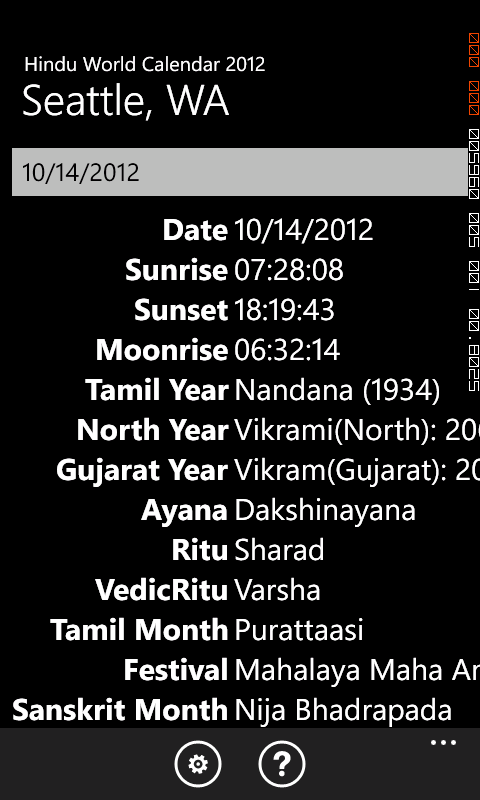
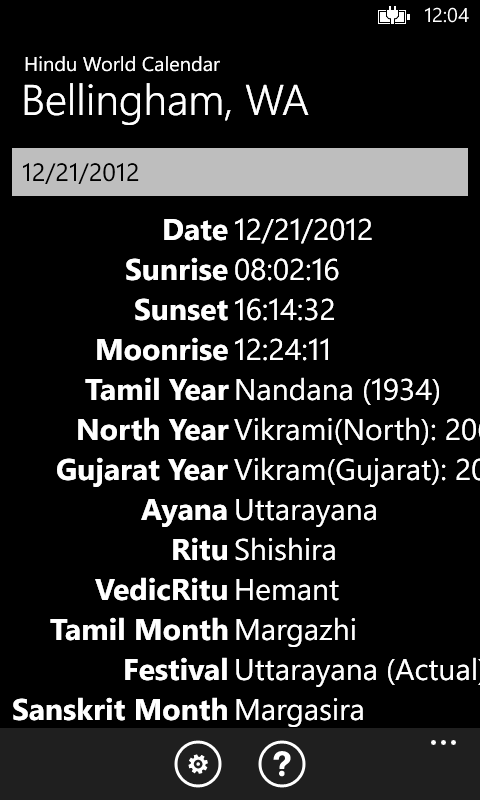
Update to fix crash in windows phone 7.1
These are bug fixes to pass certifcation

diff --git a/HinduCalendarPhone/HinduCalendarPhone/HinduCalendarPhone/CalendarData.cs b/HinduCalendarPhone/HinduCalendarPhone/HinduCalendarPhone/CalendarData.cs
@@ -105,29 +105,74 @@ namespace HinduCalendarPhone
         {
             if (getLocation == true)
             {
-                //MessageBoxResult result = MessageBox.Show("Please allow Hindu World Calendar to use your location to customize the calendar for your city",
-                //                "Hindu World Calendar",
-                //                MessageBoxButton.OKCancel);
-                //if (result == MessageBoxResult.OK)
+                // Start the watcher and wire for events.
                 {
                     GeoCoordinateWatcher watcher = new GeoCoordinateWatcher();
+                    watcher.StatusChanged += watcher_StatusChanged;
+                    watcher.PositionChanged += watcher_PositionChanged;
                     watcher.Start();
-                    if (watcher.Permission == GeoPositionPermission.Granted)
-                    {
-                        System.Diagnostics.Debug.WriteLine("Location services status" + watcher.Status.ToString());
-                        GeoCoordinate coord = watcher.Position.Location;
-                        _cityToken = Calender2.Data.CityData.FindClosestCity(coord.Latitude, coord.Longitude);
-                        City city = Calender2.Data.CityData.GetCityInformation(_cityToken);
-                        UpdateCityToken(_cityToken, city._Name);
-                    }
-                    else
-                    {
-                        System.Diagnostics.Debug.WriteLine("Location services not initilaized or permission not granted");
-                    }
+                    //if (watcher.Permission == GeoPositionPermission.Granted)
+                    //{
+                    //    System.Diagnostics.Debug.WriteLine("Location services status" + watcher.Status.ToString());
+                    //    GeoCoordinate coord = watcher.Position.Location;
+                    //    if (coord.IsUnknown != true)
+                    //    {
+                    //        _cityToken = Calender2.Data.CityData.FindClosestCity(coord.Latitude, coord.Longitude);
+                    //        City city = Calender2.Data.CityData.GetCityInformation(_cityToken);
+                    //        UpdateCityToken(_cityToken, city._Name);
+                    //    }
+                    //    else
+                    //    {
+                    //        System.Diagnostics.Debug.WriteLine("Location services not initilaized");
+                    //    }
+
+                    //}
+                    //else
+                    //{
+                    //    System.Diagnostics.Debug.WriteLine("permission not granted");
+                    //}
                 }
             }
             GetCalendarDataForYear(2012);
             GetCalendarDataForYear(2013);
+        }
+
+        private void watcher_PositionChanged(object sender, GeoPositionChangedEventArgs<GeoCoordinate> e)
+        {
+            System.Diagnostics.Debug.WriteLine("Location position changed {0} {1}", e.Position.Location.Latitude, e.Position.Location.Longitude);
+            GeoCoordinate coord = e.Position.Location;
+            if (coord.IsUnknown != true)
+            {
+                String cityToken = Calender2.Data.CityData.FindClosestCity(coord.Latitude, coord.Longitude);
+                City city = Calender2.Data.CityData.GetCityInformation(cityToken);
+                UpdateCityTokenAndGetData(cityToken, city._Name);
+                DayView.UpdateDayViewPageForNewCity();
+            }
+            else
+            {
+                System.Diagnostics.Debug.WriteLine("Location services not initilaized");
+            }
+        }
+
+        private void watcher_StatusChanged(object sender, GeoPositionStatusChangedEventArgs e)
+        {
+            GeoCoordinateWatcher watcher = sender as GeoCoordinateWatcher;
+            System.Diagnostics.Debug.WriteLine("Location services status" + watcher.Status.ToString());
+            if (e.Status == GeoPositionStatus.Ready)
+            {
+                GeoCoordinate coord = watcher.Position.Location;
+                if (coord.IsUnknown != true)
+                {
+                    String cityToken = Calender2.Data.CityData.FindClosestCity(coord.Latitude, coord.Longitude);
+                    City city = Calender2.Data.CityData.GetCityInformation(cityToken);
+                    UpdateCityTokenAndGetData(cityToken, city._Name);
+                    DayView.UpdateDayViewPageForNewCity();
+                }
+                else
+                {
+                    System.Diagnostics.Debug.WriteLine("Location services not initilaized");
+                }
+            }
         }
 
         public void UpdateCityToken(String token, String name)
@@ -138,9 +183,14 @@ namespace HinduCalendarPhone
 
         public void UpdateCityTokenAndGetData(String token, String name)
         {
-            _cityToken = token;
-            _cityName = name;
-            GetCalendarData(false);
+            // If the string is different update the data
+            if (_cityToken.Equals(token) != true)
+            {
+                Debug.WriteLine("Updating city token and getting data");
+                _cityToken = token;
+                _cityName = name;
+                GetCalendarData(false);
+            }
         }
 
         public String CityToken

diff --git a/HinduCalendarPhone/HinduCalendarPhone/HinduCalendarPhone/DayView.xaml.cs b/HinduCalendarPhone/HinduCalendarPhone/HinduCalendarPhone/DayView.xaml.cs
@@ -16,6 +16,8 @@ namespace HinduCalendarPhone
 {
     public partial class DayView : PhoneApplicationPage
     {
+        static DayView _currentDayView = null;
+
         public DayView()
         {
             InitializeComponent();
@@ -26,6 +28,7 @@ namespace HinduCalendarPhone
             base.OnNavigatedTo(e);
 
             string dateString = "";
+            _currentDayView = this;
             HinduCalendarPhone.App app = Application.Current as HinduCalendarPhone.App;
 
             if (NavigationContext.QueryString.TryGetValue("date", out dateString))
@@ -35,6 +38,16 @@ namespace HinduCalendarPhone
                 app.CurrentDate = DateTime.Parse(dateString);
             } 
             ShowDetail();
+        }
+
+        public static void UpdateDayViewPageForNewCity()
+        {
+            Debug.WriteLine("trying to Update city view");
+            if (_currentDayView != null)
+            {
+                Debug.WriteLine("Updating city view");
+                _currentDayView.ShowDetail();
+            }
         }
 
         public void ShowDetail()
